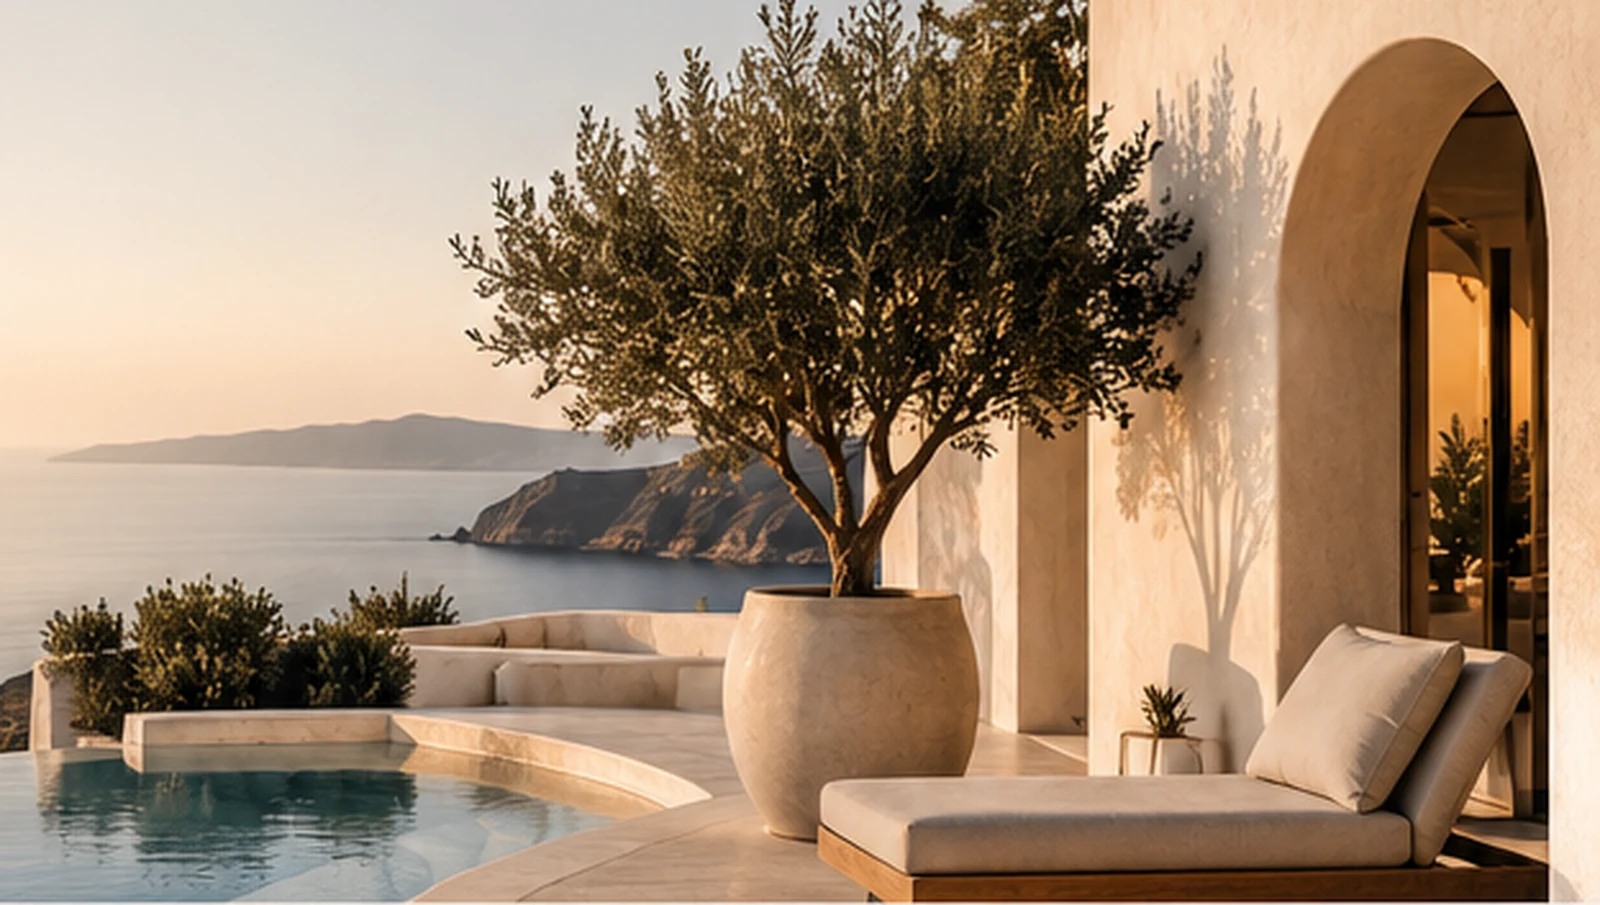
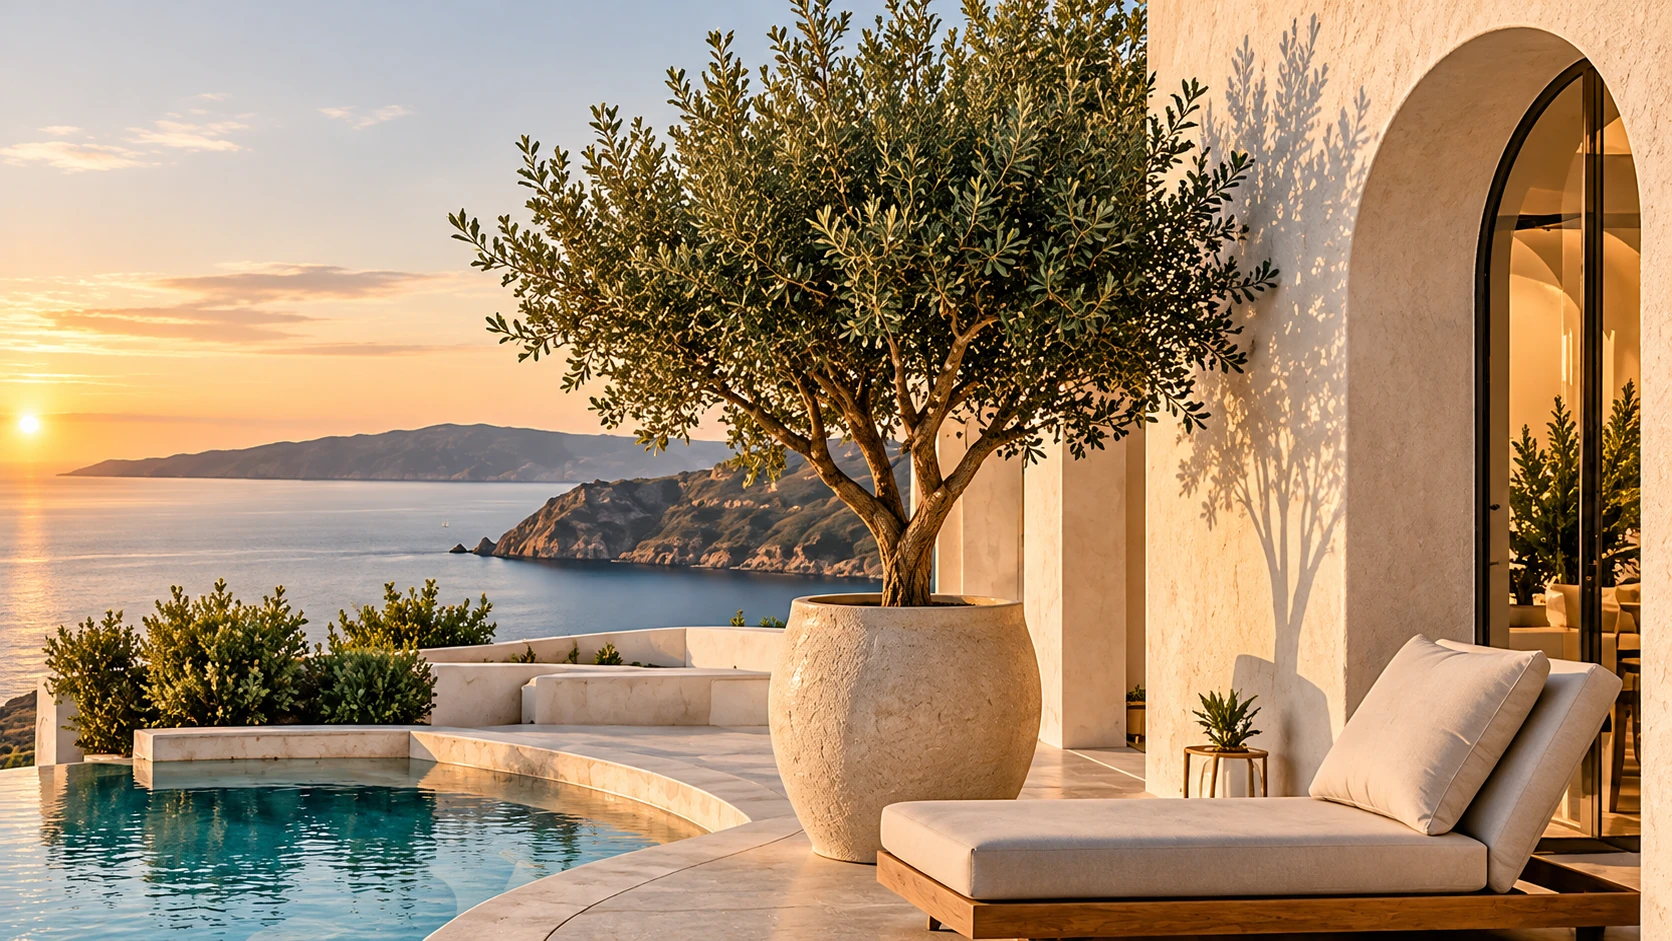
Replace hero image with higher-quality version
Claude-Session: https://claude.ai/code/session_01RBjmVimQnrjfwdFvvBbz1L

diff --git a/index.html b/index.html
@@ -9,16 +9,16 @@
 :root{--cream:#f6f0e8;--paper:#fbf7f0;--sand:#e8ddce;--olive:#5d5b36;--olive2:#464629;--ink:#242321;--muted:#66645e;--line:rgba(65,59,45,.25);--serif:Georgia,'Times New Roman',serif;--sans:Inter,Avenir,'Segoe UI',Arial,sans-serif;--max:1440px}
 *{box-sizing:border-box}button,input,select,textarea{font-family:inherit}html{scroll-behavior:smooth;scroll-padding-top:90px}body{margin:0;background:var(--cream);color:var(--ink);font-family:var(--sans);-webkit-font-smoothing:antialiased}a{color:inherit;text-decoration:none}img{display:block;max-width:100%}.wrap{width:min(var(--max),calc(100% - 100px));margin:auto}.eyebrow{font-size:10px;letter-spacing:.2em;text-transform:uppercase;font-weight:650}.btn{display:inline-flex;align-items:center;justify-content:center;gap:12px;min-height:44px;padding:13px 22px;border:1px solid var(--olive);border-radius:4px;background:var(--olive);color:white;font-size:12px;font-weight:550;transition:.2s}.btn:hover{background:var(--olive2);transform:translateY(-1px)}.btn.outline{background:transparent;color:var(--ink)}.btn.outline:hover{background:var(--olive);color:#fff}
 header{position:fixed;z-index:50;top:0;left:0;width:100%;height:94px;transition:background-color .25s,box-shadow .25s,height .25s}header.scrolled{height:76px;background:rgba(246,240,232,.94);-webkit-backdrop-filter:blur(8px);backdrop-filter:blur(8px);box-shadow:0 1px 0 var(--line),0 6px 20px rgba(25,22,15,.06)}.nav{height:100%;display:flex;align-items:center;justify-content:space-between;gap:24px}.brand{font-size:39px;letter-spacing:.19em;font-weight:400;line-height:1}.brand small{display:block;text-align:center;font-size:10px;letter-spacing:.17em;margin-top:8px}.navlinks{display:flex;gap:34px;align-items:center;font-size:12px;font-weight:550}.navlinks a:hover{color:var(--olive)}.nav-cta{border-radius:30px;padding:12px 21px}.toggle{display:none;border:0;background:transparent;font-size:27px;min-width:44px;min-height:44px;color:var(--ink)}.mobile{display:none}
-.hero{min-height:590px;height:min(56vw,710px);max-height:710px;position:relative;display:flex;align-items:center;overflow:hidden;background:linear-gradient(90deg,rgba(246,240,232,.96) 0%,rgba(246,240,232,.82) 36%,rgba(246,240,232,.04) 73%),url('assets/taovel-mediterranean-hero.webp') center 53%/cover no-repeat}.hero .wrap{position:relative;z-index:1}.hero-copy{max-width:610px;padding-top:46px}.hero h1{font-size:clamp(48px,5.1vw,74px);font-weight:400;line-height:1.02;letter-spacing:-.055em;margin:0 0 18px}.hero p{font-size:17px;line-height:1.55;max-width:470px;margin:0 0 24px}.hero-caption{position:absolute;left:5%;bottom:44px;padding-left:18px;border-left:1px solid var(--olive);font-size:12px}.hero-caption:before{content:'';position:absolute;left:0;top:50%;width:16px;height:1px;background:var(--olive)}
+.hero{min-height:590px;height:min(56vw,710px);max-height:710px;position:relative;display:flex;align-items:center;overflow:hidden;background:linear-gradient(90deg,rgba(246,240,232,.96) 0%,rgba(246,240,232,.82) 36%,rgba(246,240,232,.04) 73%),url('assets/taovel-mediterranean-hero.webp?v=2') center 53%/cover no-repeat}.hero .wrap{position:relative;z-index:1}.hero-copy{max-width:610px;padding-top:46px}.hero h1{font-size:clamp(48px,5.1vw,74px);font-weight:400;line-height:1.02;letter-spacing:-.055em;margin:0 0 18px}.hero p{font-size:17px;line-height:1.55;max-width:470px;margin:0 0 24px}.hero-caption{position:absolute;left:5%;bottom:44px;padding-left:18px;border-left:1px solid var(--olive);font-size:12px}.hero-caption:before{content:'';position:absolute;left:0;top:50%;width:16px;height:1px;background:var(--olive)}
 .services{padding:34px 0 42px}.section-heading{text-align:center;margin:0 0 24px}.section-heading h2{font-size:36px;font-weight:400;margin:0 0 5px;letter-spacing:-.035em}.section-heading p{font-size:15px;margin:0;color:var(--muted)}.service-grid{display:grid;grid-template-columns:repeat(3,1fr);gap:0}.service{padding:8px 34px 6px;text-align:center;position:relative}.service+ .service:before{content:'';position:absolute;left:0;top:8px;bottom:5px;width:1px;background:var(--line)}.service-icon{height:44px;margin:0 auto 8px;color:var(--olive)}.service h3{font-size:17px;margin:0 0 10px;font-weight:650;letter-spacing:-.025em}.service p{font-size:13px;line-height:1.55;margin:0 auto;max-width:290px}
 .tech{display:grid;grid-template-columns:1fr 1.45fr  .72fr;align-items:stretch;background:#eee5da;min-height:310px}.tech-copy{padding:35px 38px 26px 5vw;border-right:1px solid var(--line);display:flex;flex-direction:column;justify-content:center}.cloudbeds-word{display:flex;align-items:center;margin-bottom:20px}.cloudbeds-word img{display:block;height:30px;width:auto;max-width:100%}.tech-copy h2{font-size:23px;line-height:1.22;font-weight:650;margin:0 0 10px;letter-spacing:-.035em}.tech-copy p{font-size:13px;line-height:1.55;margin:0 0 16px}.disclosure{font-size:10px!important;line-height:1.5!important;font-style:italic;margin:13px 0 0!important}.tech-photo{min-height:310px;background:url('assets/cloudbeds-laptop.webp') 55% 45%/cover no-repeat}.tech-list{padding:25px 24px;display:flex;flex-direction:column;justify-content:center;gap:19px}.tech-item{display:flex;align-items:center;gap:14px;font-size:14px}.tech-item svg{width:26px;height:26px;flex:none;color:var(--ink);stroke-width:1.6}
 .concept{display:grid;grid-template-columns:1.1fr .9fr;background:var(--paper);min-height:285px}.concept-gallery{display:grid;grid-template-columns:1.25fr 1fr;grid-template-rows:1fr 1fr;gap:6px;min-height:340px;padding:6px;background:var(--paper)}.concept-gallery img{width:100%;height:100%;object-fit:cover;min-height:0}.concept-gallery img{display:block}.concept-gallery .g-main{grid-row:1 / 3}.concept-content{padding:32px 5vw 28px 42px;display:flex;flex-direction:column;justify-content:center}.concept-content h2{font-size:27px;font-weight:500;margin:0 0 2px;letter-spacing:-.04em}.concept-content h3{font-size:17px;font-weight:450;margin:0 0 12px}.concept-content p{font-size:13px;line-height:1.55;margin:0 0 12px;color:#494840}.concept-points{list-style:none;padding:0;margin:0 0 17px}.concept-points li{font-size:12px;margin:7px 0}.concept-points li:before{content:'✓';color:var(--olive);font-weight:bold;margin-right:12px}.palette{display:flex;gap:8px;margin:0 0 17px}.swatch{width:24px;height:24px;border-radius:50%;border:1px solid rgba(0,0,0,.1)}.concept-content .btn{align-self:flex-start}.concept-disclaimer{font-size:10px!important;color:#77736b!important;font-style:italic;margin-top:12px!important}
 .details{padding:66px 0;background:#f1e8dc}.details-grid{display:grid;grid-template-columns:.85fr 1.15fr;gap:60px;align-items:start}.details h2{font-family:var(--sans);font-size:36px;font-weight:400;line-height:1.12;letter-spacing:-.035em;margin:12px 0}.details p{font-size:13px;line-height:1.8;color:var(--muted)}.detail-cards{display:grid;grid-template-columns:repeat(3,1fr);gap:16px}.detail-card{border-top:1px solid var(--olive);padding-top:13px}.detail-card b{display:block;font-size:13px;margin-bottom:7px}.detail-card span{font-size:11px;line-height:1.6;color:var(--muted)}.about{background:var(--paper)}.about-grid{display:grid;grid-template-columns:minmax(220px,.62fr) 1.9fr;gap:56px;align-items:start}.about-body{display:grid;gap:34px}.about-body h2{max-width:760px}.about-body p{max-width:720px}.founder{margin:0}.founder img{width:100%;height:auto;aspect-ratio:4/5;object-fit:cover}.founder figcaption{display:flex;flex-direction:column;gap:3px;border-top:1px solid var(--olive);margin-top:14px;padding-top:12px}.founder figcaption b{font-size:14px;font-weight:650}.founder figcaption span{font-size:11px;letter-spacing:.12em;text-transform:uppercase;color:var(--muted)}@media(max-width:900px){.about-grid{grid-template-columns:1fr;gap:30px}.founder{max-width:340px}}.detail-card .stat{display:block;font-size:44px;line-height:1;font-weight:400;letter-spacing:-.04em;color:var(--olive);margin:4px 0 10px}
-.closing{background:linear-gradient(90deg,rgba(70,70,41,.97),rgba(70,70,41,.94)),url('assets/taovel-mediterranean-hero.webp') center/cover;color:#f7f1e7;padding:48px 0}.closing-inner{display:flex;align-items:center;justify-content:space-between;gap:28px}.closing h2{font-family:var(--sans);font-size:30px;font-weight:400;line-height:1.2;letter-spacing:-.035em;margin:0 0 7px}.closing p{font-size:13px;margin:0;color:#e5e0d5}.closing .btn{background:#f5eadc;border-color:#f5eadc;color:#242321;border-radius:28px;white-space:nowrap}
+.closing{background:linear-gradient(90deg,rgba(70,70,41,.97),rgba(70,70,41,.94)),url('assets/taovel-mediterranean-hero.webp?v=2') center/cover;color:#f7f1e7;padding:48px 0}.closing-inner{display:flex;align-items:center;justify-content:space-between;gap:28px}.closing h2{font-family:var(--sans);font-size:30px;font-weight:400;line-height:1.2;letter-spacing:-.035em;margin:0 0 7px}.closing p{font-size:13px;margin:0;color:#e5e0d5}.closing .btn{background:#f5eadc;border-color:#f5eadc;color:#242321;border-radius:28px;white-space:nowrap}
 /* Contact dialog */
 .contact-dialog{width:min(680px,calc(100% - 28px));max-height:calc(100dvh - 28px);overflow:auto;border:1px solid var(--line);padding:0;background:var(--paper);color:var(--ink);box-shadow:0 24px 80px rgba(25,22,15,.28)}.contact-dialog::backdrop{background:rgba(25,25,20,.58);backdrop-filter:blur(3px)}.contact-dialog-inner{padding:34px 38px 30px}.dialog-top{display:flex;justify-content:space-between;align-items:flex-start;gap:20px}.dialog-top h2{font-family:var(--sans);font-size:32px;font-weight:400;line-height:1.12;letter-spacing:-.035em;margin:9px 0 8px}.dialog-close{border:1px solid var(--line);background:transparent;width:42px;height:42px;font-size:23px;cursor:pointer;color:var(--ink)}.contact-intro{font-size:13px;line-height:1.7;color:var(--muted);margin:0 0 22px}.contact-grid{display:grid;grid-template-columns:1fr 1fr;gap:14px}.contact-field{display:flex;flex-direction:column;gap:7px}.contact-field.full{grid-column:1/-1}.contact-field label{font-size:10px;letter-spacing:.1em;text-transform:uppercase;color:var(--muted)}.contact-field input,.contact-field textarea{width:100%;border:1px solid var(--line);border-radius:2px;background:#fffdf9;padding:12px 13px;color:var(--ink);font:inherit;font-size:13px;min-height:44px}.contact-field textarea{min-height:116px;resize:vertical}.contact-field input:focus,.contact-field textarea:focus{outline:2px solid var(--olive);outline-offset:1px}.contact-submit{margin-top:17px}.contact-meta{display:flex;flex-wrap:wrap;gap:10px 24px;border-top:1px solid var(--line);margin-top:23px;padding-top:18px;font-size:12px}.contact-meta a{text-decoration:underline;text-decoration-color:var(--olive);text-underline-offset:3px}[hidden]{display:none!important}.form-section{border:0;padding:0;margin:0 0 22px;min-width:0}.form-section legend{float:left;width:100%;font-family:var(--sans);font-size:17px;font-weight:650;line-height:1.3;letter-spacing:-.025em;padding:0 0 12px;margin:0;color:var(--ink)}.form-section legend+*{clear:both}.form-section+.form-section{border-top:1px solid var(--line);padding-top:20px}.contact-field select{width:100%;border:1px solid var(--line);border-radius:2px;background:#fffdf9;padding:12px 13px;color:var(--ink);font:inherit;font-size:13px;min-height:44px}.contact-field select:focus{outline:2px solid var(--olive);outline-offset:1px}.consent{display:flex;gap:10px;align-items:flex-start;font-size:12px;line-height:1.6;color:var(--muted);margin:4px 0 4px;cursor:pointer}.consent input{width:18px;height:18px;margin:2px 0 0;flex:none;accent-color:var(--olive)}.consent a,.contact-note a{text-decoration:underline;text-underline-offset:2px}.copyright a{text-decoration:underline;text-underline-offset:2px}.contact-status{font-size:13px;line-height:1.6;margin:12px 0 0;min-height:1px}.contact-status.ok{color:var(--olive)}.contact-status.err{color:#9b3b2e}.contact-note{font-size:10px;line-height:1.6;color:var(--muted);margin:15px 0 0}@media(max-width:600px){.contact-dialog-inner{padding:25px 20px 22px}.dialog-top h2{font-size:29px}.contact-grid{grid-template-columns:1fr}.contact-field.full{grid-column:auto}.contact-meta{flex-direction:column;gap:11px}}.footer{padding:26px 0;background:var(--paper)}.footer-inner{display:flex;align-items:center;justify-content:space-between;gap:24px}.footer-brand{font-size:28px;letter-spacing:.19em}.footer-mid{font-size:11px;color:var(--muted)}.footer-links{display:flex;gap:24px;font-size:11px}.footer a:hover{text-decoration:underline}.legal-note{margin:10px 0 0;font-size:10px;line-height:1.6;color:#77736b}.copyright{border-top:1px solid var(--line);padding-top:14px;margin-top:20px;display:flex;justify-content:space-between;font-size:9px;letter-spacing:.1em;color:#77736b;text-transform:uppercase}
 @media(max-width:900px){.wrap{width:calc(100% - 52px)}.navlinks,.nav-cta{display:none}.toggle{display:block}.mobile{position:absolute;top:100%;left:0;right:0;background:var(--cream);padding:18px 26px 24px;display:none;flex-direction:column;gap:8px;border-bottom:1px solid var(--line)}.mobile.open{display:flex}.mobile a{padding:12px 0;min-height:44px}.mobile a.mobile-cta{align-self:flex-start;margin-top:10px;padding:12px 21px;border-radius:30px;color:#fff}.hero{height:620px;min-height:0;background-position:58% center}.hero h1{font-size:clamp(46px,8vw,64px)}.tech{grid-template-columns:1fr 1.1fr}.tech-copy{padding:28px}.tech-photo{min-height:280px}.tech-list{grid-column:1/-1;display:grid;grid-template-columns:repeat(3,1fr);padding:20px 28px}.tech-item{font-size:12px}.concept-content{padding:26px}.details-grid{grid-template-columns:1fr;gap:24px}}
-@media(max-width:600px){.wrap{width:calc(100% - 36px)}header{height:76px}.brand{font-size:30px}.brand small{font-size:8px}.hero{height:620px;min-height:0;align-items:flex-start;background-position:62% center;background-image:linear-gradient(90deg,rgba(246,240,232,.96) 0%,rgba(246,240,232,.82) 55%,rgba(246,240,232,.2) 100%),url('assets/taovel-mediterranean-hero.webp')}.hero-copy{padding-top:150px}.hero h1{font-size:clamp(43px,11vw,58px);max-width:430px}.hero p{font-size:15px;max-width:340px}.hero-caption{bottom:24px;left:20px;font-size:10px}.services{padding:30px 0}.section-heading h2{font-size:30px}.section-heading p{font-size:13px}.service-grid{grid-template-columns:1fr;gap:0}.service{padding:22px 10px}.service+.service:before{left:10%;right:10%;top:0;bottom:auto;width:80%;height:1px}.service-icon{height:38px}.tech{grid-template-columns:1fr}.tech-copy{padding:30px 24px;border-right:0;border-bottom:1px solid var(--line)}.cloudbeds-word img{height:26px}.tech-photo{min-height:235px;grid-row:2}.tech-list{grid-row:3;grid-template-columns:1fr 1fr;gap:15px;padding:22px 24px}.tech-item{font-size:12px}.concept{grid-template-columns:1fr}.concept-gallery{min-height:300px;height:300px}.concept-content{padding:28px 24px}.concept-content h2{font-size:25px}.details{padding:48px 0}.details h2{font-size:30px}.detail-cards{grid-template-columns:1fr;gap:18px}.closing{padding:38px 0}.closing-inner{align-items:flex-start;flex-direction:column}.closing h2{font-size:27px}.footer-inner{align-items:flex-start;flex-direction:column}.footer-links{flex-wrap:wrap;gap:14px 20px}.copyright{flex-direction:column;gap:8px}}
+@media(max-width:600px){.wrap{width:calc(100% - 36px)}header{height:76px}.brand{font-size:30px}.brand small{font-size:8px}.hero{height:620px;min-height:0;align-items:flex-start;background-position:62% center;background-image:linear-gradient(90deg,rgba(246,240,232,.96) 0%,rgba(246,240,232,.82) 55%,rgba(246,240,232,.2) 100%),url('assets/taovel-mediterranean-hero.webp?v=2')}.hero-copy{padding-top:150px}.hero h1{font-size:clamp(43px,11vw,58px);max-width:430px}.hero p{font-size:15px;max-width:340px}.hero-caption{bottom:24px;left:20px;font-size:10px}.services{padding:30px 0}.section-heading h2{font-size:30px}.section-heading p{font-size:13px}.service-grid{grid-template-columns:1fr;gap:0}.service{padding:22px 10px}.service+.service:before{left:10%;right:10%;top:0;bottom:auto;width:80%;height:1px}.service-icon{height:38px}.tech{grid-template-columns:1fr}.tech-copy{padding:30px 24px;border-right:0;border-bottom:1px solid var(--line)}.cloudbeds-word img{height:26px}.tech-photo{min-height:235px;grid-row:2}.tech-list{grid-row:3;grid-template-columns:1fr 1fr;gap:15px;padding:22px 24px}.tech-item{font-size:12px}.concept{grid-template-columns:1fr}.concept-gallery{min-height:300px;height:300px}.concept-content{padding:28px 24px}.concept-content h2{font-size:25px}.details{padding:48px 0}.details h2{font-size:30px}.detail-cards{grid-template-columns:1fr;gap:18px}.closing{padding:38px 0}.closing-inner{align-items:flex-start;flex-direction:column}.closing h2{font-size:27px}.footer-inner{align-items:flex-start;flex-direction:column}.footer-links{flex-wrap:wrap;gap:14px 20px}.copyright{flex-direction:column;gap:8px}}
 @media(prefers-reduced-motion:reduce){html{scroll-behavior:auto}*,*:before,*:after{transition:none!important}}
 </style>
 </head>
